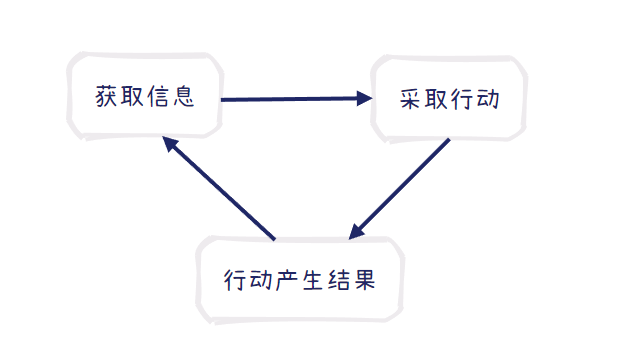
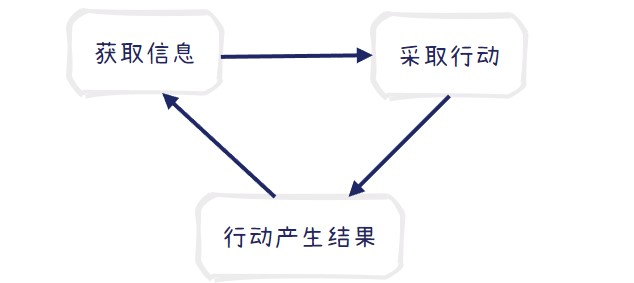
update 动作游戏的本质

diff --git a/_posts/1.动作游戏分析/经典/2024-05-14-ActionGameDesign.md b/_posts/1.动作游戏分析/经典/2024-05-14-ActionGameDesign.md
@@ -18,14 +18,18 @@ pro: true
 
 ## 广义和狭义的动作游戏
 
-![](/assets/img/act/2022/xmind-1.png)
+<!-- ![](/assets/img/act/2022/xmind-1.png) -->
 
 
 本节想先讨论一些远离具体的设计的、有关动作游戏的宏观理解，这些作为一些基础铺垫，帮助我们深入理解动作游戏的核心特征与乐趣，逐步导出下文的一些理解、设计方法论。
 
 ![动作游戏核心体验](/assets/img/act/2022/03.jpg)
 
-+ 广义动作游戏
+
+### 动作游戏的分类
+
+
+#### 广义动作游戏
 
 本文无意对动作游戏的今生往世做细致详细的介绍，但是动作游戏是一个不同人理解起来相当容易产生歧义的游戏类型。归根结底，动作游戏的历史和内涵过于丰富，广泛存在于不同类型游戏的体验与机制上。
 
@@ -38,13 +42,14 @@ pro: true
 从玩家角度，射击易于掌握，同样都作为广泛基础类型 -->
 
 
-+ 狭义（日式）动作游戏
+#### 狭义（日式）动作游戏
 
 以广义去探讨，可能会像面对一整片森林去观察某种特定植物，未必能得到想要的答案。
 
 如果你看了本博客的其他游戏分析，你会发现其中大多为日系动作游戏，维基百科中存在于另一个关于**[日式狭义动作的定义：分为2D和3D，2D分为横版卷轴、纵向卷轴、俯视角、固定画面；3D分为无双类、硬核动作、怪猎、魂like，格斗类则作为掌上明珠单独枚举](https://ja.wikipedia.org/wiki/%E3%82%A2%E3%82%AF%E3%82%B7%E3%83%A7%E3%83%B3%E3%82%B2%E3%83%BC%E3%83%A0)**。
 
-+ 我们所讨论的是
+
+#### 我们所讨论的是
 
 更接近上面狭义（日式）动作游戏的定义，正如[旗舰评论所言](https://zhuanlan.zhihu.com/p/25481394)：
 
@@ -53,7 +58,7 @@ pro: true
 
 ## 动作游戏的哲学与本质
 
-![](/assets/img/act/2022/xmind-2.png)
+<!-- ![](/assets/img/act/2022/xmind-2.png) -->
 
 
 “动作”伴随着人类从动物形成社会的全过程，早已写入了人类的基因。当动作这个概念进行抽象并用于游戏娱乐，动作游戏诞生了。
@@ -63,12 +68,12 @@ pro: true
 ![动作游戏核心体验](/assets/img/act/2022/03-1.jpg)
 
 
-### !!设计方法论：奖惩导向 上
+### 设计方法论：奖惩导向 上
 
-![](/assets/img/act/2022/xmind-2.1.png)
+<!-- ![](/assets/img/act/2022/xmind-2.1.png) -->
 
 
-+ 控制的乐趣
+#### 控制的乐趣
 
 岔一下话题，按照上文的抽象，如何让“控制”变得有趣？（这是一个很大的话题，也不局限于动作游戏。）
 
@@ -83,7 +88,8 @@ pro: true
 >
 > 当然这对于动作游戏的大部分玩家都是不太成立的，大众玩家不一定知道决策的方式，也不一定能掌握好画面信息的阅读，更重要的是对动作游戏复杂动态交互的表现远没有厌烦。
 
-+ 奖惩导向
+
+#### 奖惩导向
 
 赋予更多意义这个思路下，一个非常有效的做法是**奖惩导向**，听起来很单纯：在玩家做出正确的控制时奖励，做出错误控制时惩罚。奖惩导向最基本也最广泛的例子是血量。
 
@@ -94,14 +100,14 @@ pro: true
 > 事实上，奖惩思路或者说概念，是不局限于动作游戏的，早在[2004年GDC樱井政博的分享《游戏设计：风险与回报》](https://archive.org/details/2004_GDC_-_03-24-2004_Sakurai_1230-130p_2-Channel)中，针对玩家行为的反馈设计就有所提及。
 
 
-### !!设计方法论：奖惩导向 下
+### 设计方法论：奖惩导向 下
 
 本节简单聊下对于动作游戏，奖惩导向一些需要注意的东西。
 
 ![](/assets/img/act/2022/08.png)
 
 
-+ 奖惩设计的基本要求
+#### 奖惩设计的基本要求
 
 **为了让奖惩导向生效，游戏会需要有一些最基础的要求**，这里按照过程细分为以下三个环节：
 
@@ -114,7 +120,7 @@ pro: true
 ![](/assets/img/act/2022/09.png)
 
 
-+ 奖惩设计方向的取舍
+#### 奖惩设计方向的取舍
 
 在基本的奖惩导向方针以后，可能还会面临一个分配问题，是设计更多的考核场景？还是给玩家设计更多的选项？这里其实有一些选择的方式，比如：
 
@@ -129,7 +135,7 @@ pro: true
 ![](/assets/img/act/2022/10.png)
 
 
-+ 让奖惩设计长期有效
+#### 让奖惩设计长期有效
 
 奖惩导向会让玩家**自然而然的去追求奖励收益最大化，如何让这个行为长期有效**？这里有一些具体的思路参考：
 
@@ -145,7 +151,7 @@ pro: true
 
 ## 基于M-D-A理论的理解
 
-![](/assets/img/act/2022/xmind-3.png)
+<!-- ![](/assets/img/act/2022/xmind-3.png) -->
 
 
 收一收，我们继续把“玩家 控制 游戏角色 播放 动作。”这个底层逻辑，放入**M机制-D动态-A美学**理论框架中：
@@ -162,12 +168,14 @@ pro: true
 ![MDA框架](/assets/img/act/2022/04.jpg)
 
 
-### !!设计方法论：底层机制
+### 设计方法论：底层机制
 
 这部分主要是一些经典或者传统的动作游戏规则和对应的实现方式。比如：
 
 
 #### 状态机 逻辑轴 系统逻辑
+
+具体来说：
 
 |项目|说明|举例|
 |---|---|---|
@@ -177,6 +185,8 @@ pro: true
 
 
 #### 一些比较典型的动作游戏的底层机制实现过程
+
+具体来说：
 
 1. 攻击命中进入受击动画：攻击框与受击框有交集……（后略）
 2. 投技的实现：投技框与受击框有交集……（后略）
@@ -190,7 +200,7 @@ pro: true
 最近的经验来说，这些问题并不是决定性的缺陷，但是这些细节确实决定了一款动作游戏是否能达到殿堂级的“高度”。
 
 
-### !!设计方法论：微观循环
+### 设计方法论：微观循环
 
 事实上，动作游戏的玩家不断在重复着：感知、认知、行动的循环过程。
 
@@ -213,15 +223,12 @@ pro: true
 这里补充一些典型的认知到的行为的目标，和目标可能侧重的层次，如下：
 
 
-1. 感知
-    1. 精准交互类：配合敌方动作判定，释放动作，一般可以产生额外效果，比如当身/返技/弹反/防反/GP等等
-2. 认知
-    1. 抉：结合当前情景（多为敌我位置、状态），从可选行为中选择最优行为
-    2. 量表计算类：（显性或者隐性地）统计攻击等造成的计数量表增加或者减少，并合理利用计数满额后的效果比如产生硬直等
-3. 行动
-    1. 移动-回避类：使用某些手段远离某个区域——多为攻击区域
-    2. 移动-进攻类：精确地调整人物位置、朝向等，使得下次行为刚好命中目标（或目标特定部位）
-    3. 连招/Combo：连续完成一系列指令输入，通常控制在僵直时窗口内，输入方式可能会需要摇杆组合按键（搓招）
+1. 【感知】精准交互类：配合敌方动作判定，释放动作，一般可以产生额外效果，比如当身/返技/弹反/防反/GP等等
+2. 【认知】抉：结合当前情景，多为敌我位置、状态，从可选行为中选择最优行为
+3. 【认知】量表计算类：显性或者隐性地统计攻击等造成的计数量表增加或者减少，并合理利用计数满额后的效果比如产生硬直等
+4. 【行动】移动-回避类：使用某些手段远离某个区域——多为攻击区域
+5. 【行动】移动-进攻类：精确地调整人物位置、朝向等，使得下次行为刚好命中目标或目标特定部位
+6. 【行动】连招/Combo：连续完成一系列指令输入，通常控制在僵直时窗口内，输入方式可能会需要摇杆组合按键——搓招
 
 
 #### 针对行动的设计
@@ -230,12 +237,13 @@ pro: true
 
 这部分主要是玩家控制的方式，事实上玩家也有着屏幕、键盘鼠标、手柄等多种输入设备，各自也有一些经典输入模式设计。
 
+
 #### 注意事项
 
 再次重申，一般不能要求玩家“左手画圆，同时右手画框”，尤其是上面提到了多个层次的设计内容，如果你既要要求玩家精准阅读信息来及时操作，还要要求复杂输入高精准瞄准，那多半是太为难玩家了，倒不是说不能为难玩家，只是，“同时要求玩家做多件事情”是件困难的事情，经常被设计师忘记，以致于玩家的谩骂。
 
 
-### !!设计方法论：打击感
+### 设计方法论：打击感
 
 这个话题太大了，这里不额外展开，典型打击感有：
 
@@ -246,18 +254,23 @@ pro: true
 
 ## 从微观到宏观
 
-![](/assets/img/act/2022/xmind-4.png)
+<!-- ![](/assets/img/act/2022/xmind-4.png) -->
 
 
 前面讨论的更多是微观体验的切片，玩家玩到的游戏是一个具体的内容序列。就像离散的画面组成了电影；离散的动作组成了角色，离散的角色（作为敌人而言）组成了关卡，进而构成了游戏。
 
-+ 体验蓝图与玩家阶段
+
+### 内容构建理论和工具
+
+
+#### 体验蓝图与玩家阶段
 
 在具体的组成方式上，也是相当具有技巧的（比如，如何控制玩家在心流区间），一种常见的，用于指导构建复杂体验的方式，是体验蓝图，如下图：
 
 ![宏观设计](/assets/img/act/2022/06.jpg)
 
-+ 叙事与英雄之旅
+
+#### 叙事与英雄之旅
 
 考虑到游戏是一个整体，主角怪物都离不开关卡和叙事——对于PVE游戏而言尤甚，叙事或者说剧作，已经是一门相当有学问和知识经验积累的单独学科，有很多经典的结构，比如“英雄之旅”。
 
